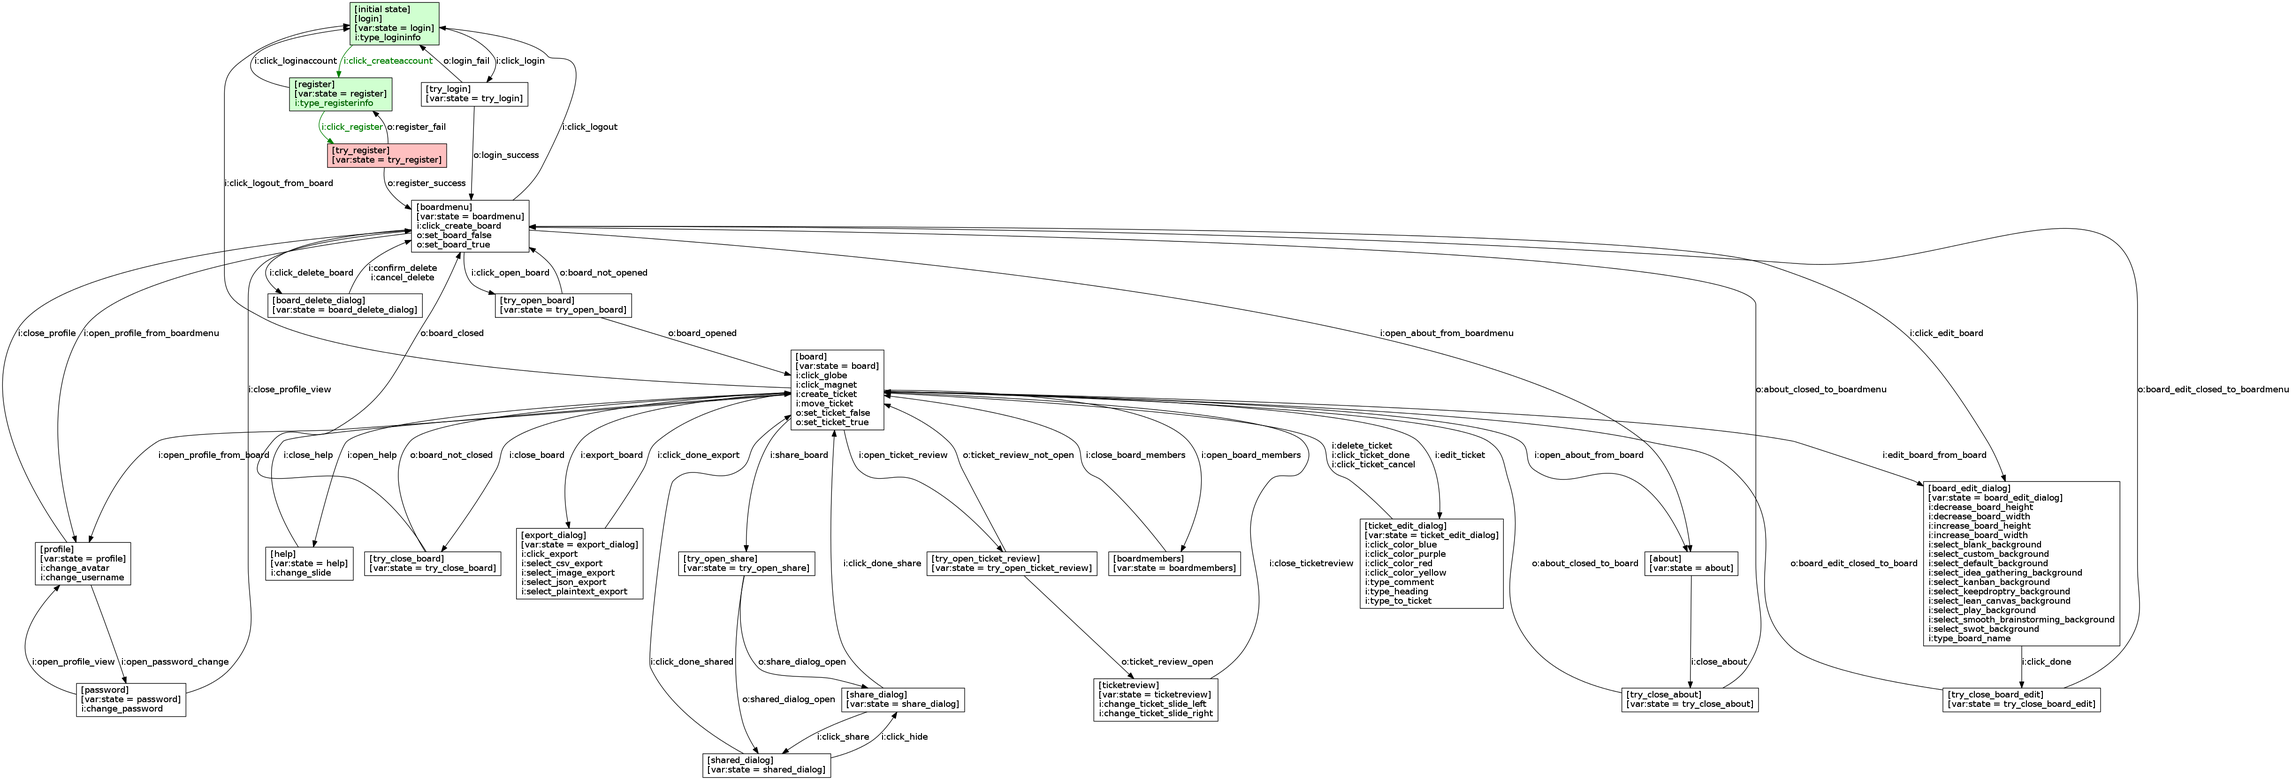
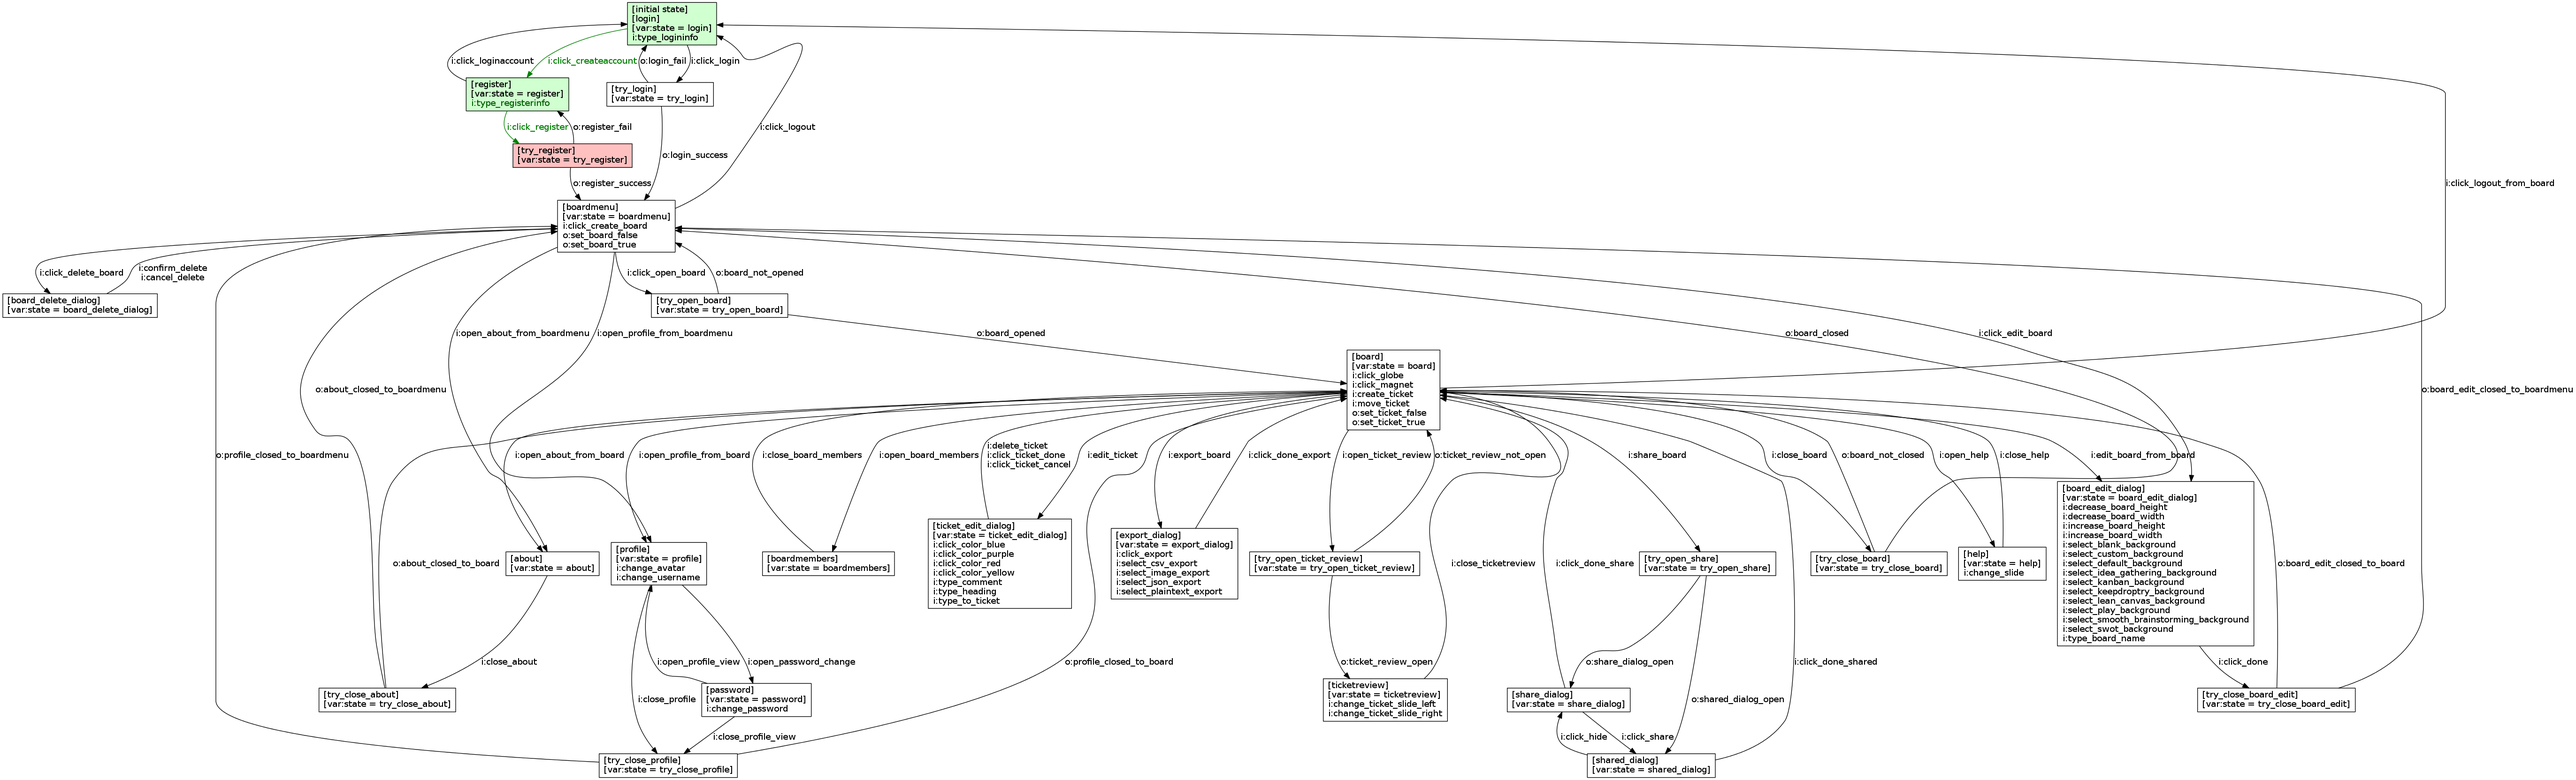
Add updatede model

diff --git a/fmbt/Contriboard/adapters/seleniumadapter.py b/fmbt/Contriboard/adapters/seleniumadapter.py
@@ -56,7 +56,8 @@ stateAssets = {
 	"help" 	: ["//div[@class='infospace']"],
 	"about" 	: 	["//form[@class='dialog dialog-about']"],
 	"boardmembers" 	: 	["//form[@class='dialog dialog-board-members']"],
-	"profile" 	: 	["//div[@class='view-settings']"],
+	"profile" 	: 	["//input[@name='avatar']"],
+	"password" 	: 	["//input[@name='oldPassword']"],
 	"ticketreview" 	: 	["//div[@class='review-overlay']"]
 }
 
@@ -272,36 +273,36 @@ def clickDone():
 
 def typeBoardName():
 	rs()
-	driver.find_element_by_xpath("//input[@placeholder='Board Name']").clear()
-	driver.find_element_by_xpath("//input[@placeholder='Board Name']").send_keys("Boardname")
+	driver.find_element_by_xpath("//input[@name='board-name']").clear()
+	driver.find_element_by_xpath("//input[@name='board-name']").send_keys("Boardname")
 	wait()
 
 def increaseWidth():
 	rs()
-	width = driver.find_element_by_xpath("//input[@placeholder='Board Width']").get_attribute("value")
+	width = driver.find_element_by_xpath("//input[@name='board-width']").get_attribute("value")
 	if width < 10:
-		driver.find_element_by_xpath("//input[@placeholder='Board Width']").send_keys(Keys.ARROW_UP)
+		driver.find_element_by_xpath("//input[@name='board-width']").send_keys(Keys.ARROW_UP)
 		wait()
 
 def increaseHeight():
 	rs()
-	height = driver.find_element_by_xpath("//input[@placeholder='Board Height']").get_attribute("value")
+	height = driver.find_element_by_xpath("//input[@name='board-height']").get_attribute("value")
 	if height < 10:
-		driver.find_element_by_xpath("//input[@placeholder='Board Height']").send_keys(Keys.ARROW_UP)
+		driver.find_element_by_xpath("//input[@name='board-height']").send_keys(Keys.ARROW_UP)
 		wait()
 
 def decreaseWidth():
 	rs()
-	width = driver.find_element_by_xpath("//input[@placeholder='Board Width']").get_attribute("value")
+	width = driver.find_element_by_xpath("//input[@name='board-width']").get_attribute("value")
 	if width > 1:
-		driver.find_element_by_xpath("//input[@placeholder='Board Width']").send_keys(Keys.ARROW_DOWN)
+		driver.find_element_by_xpath("//input[@name='board-width']").send_keys(Keys.ARROW_DOWN)
 		wait()
 
 def decreaseHeight():
 	rs()
-	height = driver.find_element_by_xpath("//input[@placeholder='Board Height']").get_attribute("value")
+	height = driver.find_element_by_xpath("//input[@name='board-height']").get_attribute("value")
 	if height > 1:
-		driver.find_element_by_xpath("//input[@placeholder='Board Height']").send_keys(Keys.ARROW_DOWN)
+		driver.find_element_by_xpath("//input[@name='board-height']").send_keys(Keys.ARROW_DOWN)
 		wait()
 
 def selectDefaultBackground():
@@ -316,8 +317,8 @@ def selectCustomBackground():
 	rid = driver.find_element_by_xpath("//form[@class='dialog dialog-edit-board']").get_attribute("data-reactid")
 	select = Select(driver.find_element_by_xpath("//select[@data-reactid='"+ rid +".1.4.0.0']"))
 	select.select_by_value("CUSTOM")
-	driver.find_element_by_xpath("//input[@name=board-custom-background']").clear()
-	driver.find_element_by_xpath("//input[@name=board-custom-background']").send_keys(custombackground)
+	driver.find_element_by_xpath("//input[@name='board-custom-background']").clear()
+	driver.find_element_by_xpath("//input[@name='board-custom-background']").send_keys(custombackground)
 	wait()
 
 def selectBlankBackground():
@@ -355,7 +356,7 @@ def selectKeendroptryBackground():
 	select.select_by_value("KEEP_DROP_TRY")
 	wait()
 
-def selectSmoohtBrainstormingBackground():
+def selectSmoothBrainstormingBackground():
 	rs()
 	rid = driver.find_element_by_xpath("//form[@class='dialog dialog-edit-board']").get_attribute("data-reactid")
 	select = Select(driver.find_element_by_xpath("//select[@data-reactid='"+ rid +".1.4.0.0']"))
@@ -490,7 +491,7 @@ def typeHeading():
 	elif isElement("//span[@data-reactid='"+ rid + ".1.1.0.0.0']") == True:
 		driver.find_element_by_xpath("//span[@data-reactid='"+ rid + ".1.1.0.0.0']").click()
 		driver.find_element_by_xpath("//input[@placeholder='Ticket header']").clear()
-		driver.find_element_by_xpath("//input[@placeholder='Ticket heading']").send_keys("Ticket Header")
+		driver.find_element_by_xpath("//input[@placeholder='Ticket header']").send_keys("Ticket Header")
 		wait()
 	else:
 		driver.find_element_by_xpath("//input[@placeholder='Ticket header']").clear()
@@ -521,7 +522,7 @@ def typeComment():
 	driver.find_element_by_xpath("//input[@class='comment-input']").clear()
 	driver.find_element_by_xpath("//input[@class='comment-input']").send_keys("comment")
 	rid = driver.find_element_by_xpath("//form[@class='dialog edit-ticket-dialog']").get_attribute("data-reactid")
-	driver.find_element_by_xpath("//button[@data-reactid='" + rid + ".1.2.0.1']").click()
+	driver.find_element_by_xpath("//button[@data-reactid='" + rid + ".1.4.0.1']").click()
 	wait()
 
 def deleteTicket():
@@ -545,7 +546,9 @@ def changeSlide():
 	rs()
 	slides =["1", "2", "3", "4", "5", "6", "7" ,"8"]
 	slide = random.choice(slides)
-	driver.find_element_by_xpath("/html/body/div[2]/div/form/div/div[2]/ul/li[" + slide + "]/button").click()
+	#StaleElementReferenceException: Message: Element is no longer attached to the DOM
+	#Fix!!!
+	#driver.find_element_by_xpath("/html/body/div[2]/div/form/div/div[2]/ul/li[" + slide + "]/button").click()
 	wait()
 
 def clickCloseHelp():
@@ -575,7 +578,7 @@ def openProfile():
 
 def closeProfileView():
 	rs()
-	driver.find_element_by_xpath("//span[@class='fa fa-arrow-left']").click()
+	driver.find_element_by_xpath("//span[@class='fa fa-times']").click()
 	wait()
 
 def changeUsername():
@@ -587,9 +590,9 @@ def changeUsername():
 
 def changeAvatar():
 	rs()
-	driver.find_element_by_xpath("//input[@type='avatar']").clear()
-	driver.find_element_by_xpath("//input[@type='avatar']").send_keys(avatar)
-	driver.find_element_by_xpath("//input[@name='submitProfile']").click()
+	driver.find_element_by_xpath("//input[@name='avatar']").clear()
+	driver.find_element_by_xpath("//input[@name='avatar']").send_keys(avatar)
+	driver.find_element_by_xpath("//input[@class='btn-primary']").click()
 	wait()
 
 # password change
@@ -613,7 +616,8 @@ def changePassword():
 	driver.find_element_by_xpath("//input[@name='newPassword']").send_keys(password)
 	driver.find_element_by_xpath("//input[@name='newPasswordAgain']").clear()
 	driver.find_element_by_xpath("//input[@name='newPasswordAgain']").send_keys(password)
-	driver.find_element_by_xpath("//input[@name='submitPassword']").click()
+	rid = driver.find_element_by_xpath("//div[@class='form-container dialog']").get_attribute("data-reactid")
+	driver.find_element_by_xpath("//input[@data-reactid='"+ rid +".1:1.2']").click()
 	wait()
 
 # about
@@ -641,19 +645,23 @@ def openTicketReview():
 
 def changeTicketSlideRight():
 	rs()
-	if isElement("//span[@class='fa fa-chevron-right']") == True:
-		driver.find_element_by_xpath("//span[@class='fa fa-chevron-right']").click()
-		wait()
-	else:
-		wait()
+	#StaleElementReferenceException: Message: Element is no longer attached to the DOM
+	#Fix!!
+	#if isElement("//span[@class='fa fa-chevron-right']") == True:
+	#	driver.find_element_by_xpath("//span[@class='fa fa-chevron-right']").click()
+	#	wait()
+	#else:
+	wait()
 
 def changeTicketSlideLeft():
 	rs()
-	if isElement("//span[@class='fa fa-chevron-left']") == True:
-		driver.find_element_by_xpath("//span[@class='fa fa-chevron-left']").click()
-		wait()
-	else:
-		wait()
+	#StaleElementReferenceException: Message: Element is no longer attached to the DOM
+	#Fix!!
+	#if isElement("//span[@class='fa fa-chevron-left']") == True:
+	#	driver.find_element_by_xpath("//span[@class='fa fa-chevron-left']").click()
+	#	wait()
+	#else:
+	wait()
 
 def closeTicketReview():
 	rs()
